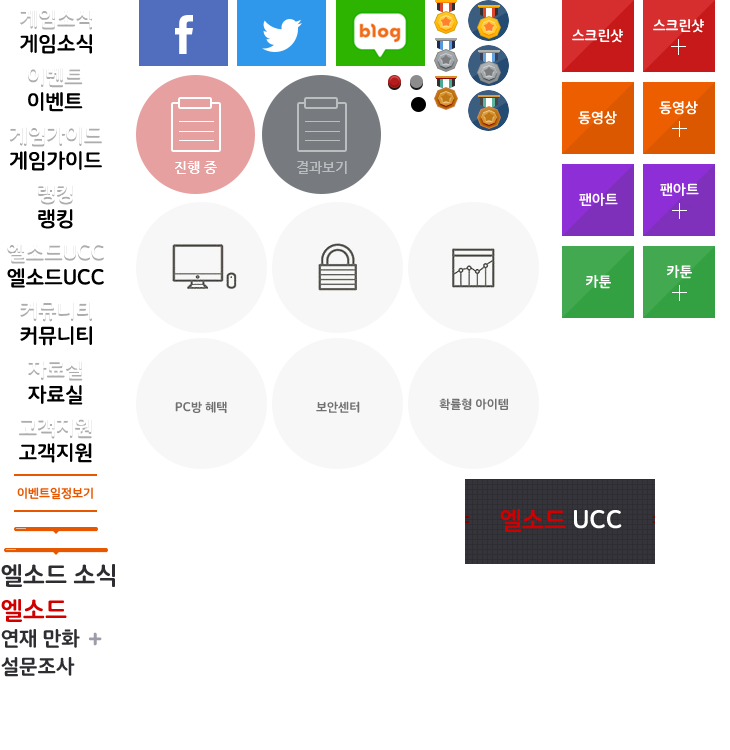
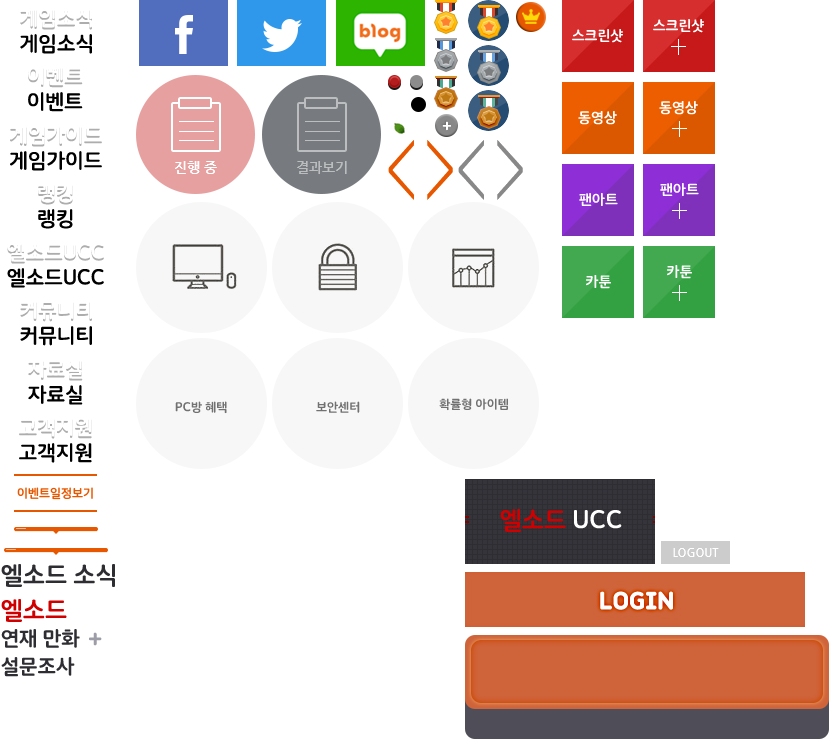
SVN 이미지 정리, sprite 처리 동기화

diff --git a/src/css/layout/_main.scss b/src/css/layout/_main.scss
@@ -19,12 +19,12 @@
 .wrap_goods {position:absolute;top:-294px;right:50%;width:400px;height:470px;margin-right:-600px;z-index:2}
 
 /* Login */
-#login.box {width:364px;height:104px;margin:12px 0 0 0;background:url('http://s.nx.com/S2/Game/Elsword/site/2018/renewal/bg_login.png') no-repeat 0 0}
+#login.box {width:364px;height:104px;margin:12px 0 0 0;background:url('http://s.nx.com/S2/Game/Elsword/site/2018/renewal/spr_global.png') no-repeat -465px -635px}
 #logged.box {height:130px;margin:7px 0 0 0}
 .wrap_information {height:180px;padding:35px 0 0 0;background:url('http://s.nx.com/S2/Game/Elsword/site/2018/renewal/bg_main_login.jpg') repeat-x 0 0}
 .wrap_information .inner {position:relative}
 .wrap_information .box {float:left}
-.wrap_information .box .btn_login {width:340px;height:55px;margin:9px auto 8px;background:url('http://s.nx.com/S2/Game/Elsword/site/2018/renewal/btn_login.jpg') no-repeat 0 0}
+.wrap_information .box .btn_login {width:340px;height:55px;margin:9px auto 8px;background:url('http://s.nx.com/S2/Game/Elsword/site/2018/renewal/spr_global.png') no-repeat -465px -572px}
 .wrap_information .box .login_menu {height:30px;text-align:center}
 .wrap_information .box .login_menu > li {display:inline-block;font-size:14px;line-height:30px;color:#9398ad}
 .wrap_information .box .login_menu > li:before {display:inline-block;content:'|';margin:0 8px 0 5px}
@@ -46,7 +46,7 @@
 .wrap_information .box .myInfo .logged_menu > li.logout {margin:0 0 0 12px}
 .wrap_information .box .myInfo .logged_menu > li.logout > a {margin:0 0 0 0}
 .wrap_information .box .myInfo .logged_menu > li.logout:before {display:none}
-.wrap_information .box .myInfo .logged_menu .btn_logout {width:69px;height:23px;background:url('http://s.nx.com/S2/Game/Elsword/site/2018/renewal/btn_logout.png') no-repeat 0 0}
+.wrap_information .box .myInfo .logged_menu .btn_logout {width:69px;height:23px;background:url('http://s.nx.com/S2/Game/Elsword/site/2018/renewal/spr_global.png') no-repeat -661px -541px}
 
 /* Game Start */
 .wrap_information .gameStart {position:absolute;top:-72px;left:397px;z-index:3}

diff --git a/src/css/_multimedia.scss b/src/css/_multimedia.scss
@@ -20,7 +20,7 @@
 
 .calendar_y{position: relative;height: 110px;margin-bottom: 55px;}
 .calendar_y:before,
-.calendar_y:after{display: block;position: absolute;width: 100%;height: 5px;background: url('http://s.nx.com/S2/Game/Elsword/site/2018/renewal/multimedia/bg_calendar_deco.png') repeat 0 0;content: " ";}
+.calendar_y:after{display: block;position: absolute;width: 100%;height: 5px;background: url('http://s.nx.com/S2/Game/Elsword/site/2018/renewal/bg_line_diagonal.png') repeat 0 0;content: " ";}
 .calendar_y:before{top: 0;}
 .calendar_y:after{bottom: 0;}
 .calendar_y > ul{width: 515px;margin: 0 auto;padding-top: 27px;}
@@ -52,7 +52,7 @@
 #y_lst {display: none;position: absolute;top: 49px;left: 50%;width: 530px;margin-left: -40px;padding: 0 20px 45px;word-wrap: break-word;background: #fff;transition: top 1s;z-index:999;border: 4px solid #a2a2a2;border-radius: 15px;}
 #y_lst.on{display: block;}
 #y_lst .header{position: relative;padding: 29px 0;text-align: center;font-weight: 800;font-size: 26.5px;color: #000;}
-#y_lst .header:after{display: inline-block;position: absolute;left: 0;bottom: 0;width: 100%;height: 5px;background: url('http://s.nx.com/S2/Game/Elsword/site/2018/renewal/multimedia/bg_calendar_deco.png') repeat 0 0;content: " ";}
+#y_lst .header:after{display: inline-block;position: absolute;left: 0;bottom: 0;width: 100%;height: 5px;background: url('http://s.nx.com/S2/Game/Elsword/site/2018/renewal/bg_line_diagonal.png') repeat 0 0;content: " ";}
 #y_lst .body{padding: 0 36px;}
 #y_lst .body .year li{float: left;margin: 36px 0 0 30px;}
 #y_lst .body .year li:nth-child(6n+1){margin-left: 0;}

diff --git a/src/css/common/_reset.scss b/src/css/common/_reset.scss
@@ -113,10 +113,12 @@ html, body {width:100%;min-width:1200px;background:#fff}
 
 
 /* Character Badge */
-/* TODO: 대표 캐릭터 이미지 최종 수정할 것 */
 .characterBadge {position:relative;width:130px;height:130px;background-repeat:no-repeat}
-.characterBadge .medal {position:absolute;bottom:3px;left:6px;width:41px;height:41px;background:url('http://s.nx.com/S2/Game/Elsword/site/2018/renewal/img_medal.png') no-repeat 0 0}
-.characterBadge .btn_editCharacter {position:absolute;top:14px;right:6px;width:23px;height:23px;background:url('http://s.nx.com/S2/Game/Elsword/site/2018/renewal/btn_editCharacter.png') no-repeat 0 0}
+.characterBadge .medal {position:absolute;bottom:3px;left:6px;width:41px;height:41px;background:url('http://s.nx.com/S2/Game/Elsword/site/2018/renewal/spr_global.png') no-repeat -468px 0}
+.characterBadge .medal.gold {background-position:-468px 0}
+.characterBadge .medal.silver {background-position:-468px -45px}
+.characterBadge .medal.bronze {background-position:-468px -90px}
+.characterBadge .btn_editCharacter {position:absolute;top:14px;right:6px;width:23px;height:23px;background:url('http://s.nx.com/S2/Game/Elsword/site/2018/renewal/spr_global.png') no-repeat -435px -114px}
 
 
 

diff --git a/src/css/layout/_sub.scss b/src/css/layout/_sub.scss
@@ -30,7 +30,8 @@
 .cont_header .titles .category > li.on {color:#e65700}
 .cont_header .titles .category > li > a {color:inherit}
 .cont_header .des {float:right;margin:6px 0 0 0}
-.cont_header .des > p {padding:0 0 0 22px;font-size:13px;color:#888;letter-spacing:-0.5px;background:url('http://s.nx.com/S2/Game/Elsword/site/2018/renewal/ico_leaf.png') no-repeat 0 0}
+.cont_header .des > p {position:relative;padding:0 0 0 22px;font-size:13px;color:#888;letter-spacing:-0.5px}
+.cont_header .des > p:before {position:absolute;display:block;content:'';top:0;left:1px;width:19px;height:17px;background:url('http://s.nx.com/S2/Game/Elsword/site/2018/renewal/spr_global.png') no-repeat -389px -120px}
 
 /* Contents Body */
 .wrap_cont .cont_body {margin:0 0 36px 0}
